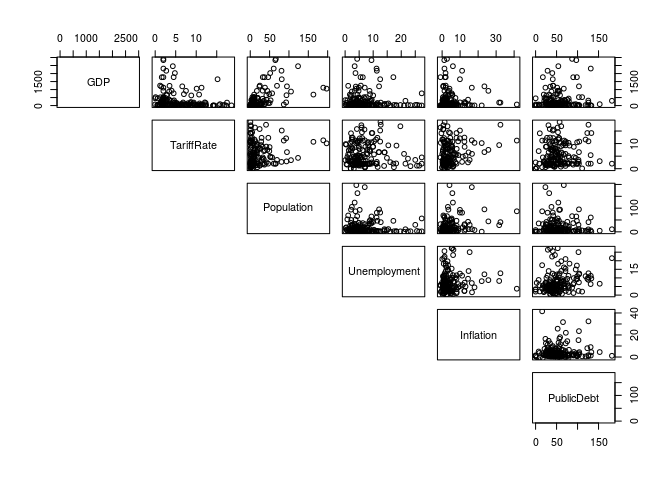
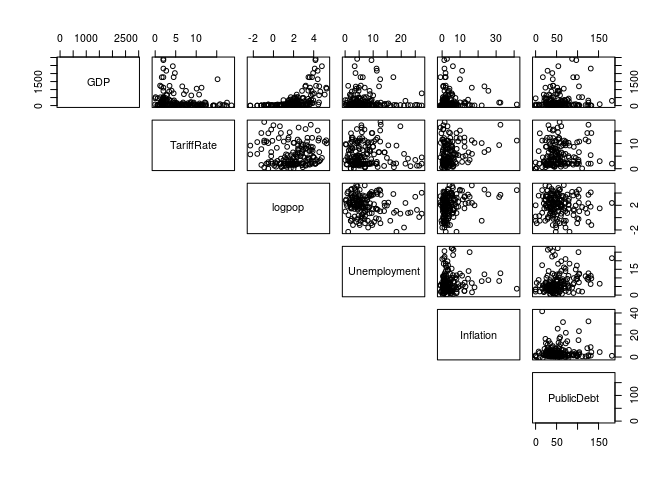
Fixed pairs

diff --git a/01-proposal/proposal.md b/01-proposal/proposal.md
@@ -7,14 +7,14 @@ Rtists
 library(tidyverse)
 ```
 
-    ## ── Attaching packages ─────────────────────────────────────────────────────────────────────────────────── tidyverse 1.2.1 ──
+    ## ── Attaching packages ──────────────────────────────────────────────────────────────────────── tidyverse 1.2.1 ──
 
     ## ✔ ggplot2 3.2.1     ✔ purrr   0.3.2
     ## ✔ tibble  2.1.3     ✔ dplyr   0.8.3
     ## ✔ tidyr   0.8.3     ✔ stringr 1.4.0
     ## ✔ readr   1.3.1     ✔ forcats 0.4.0
 
-    ## ── Conflicts ────────────────────────────────────────────────────────────────────────────────────── tidyverse_conflicts() ──
+    ## ── Conflicts ─────────────────────────────────────────────────────────────────────────── tidyverse_conflicts() ──
     ## ✖ dplyr::filter() masks stats::filter()
     ## ✖ dplyr::lag()    masks stats::lag()
 
@@ -135,7 +135,7 @@ skim()
     ##  n obs: 173 
     ##  n variables: 1 
     ## 
-    ## ── Variable type:numeric ───────────────────────────────────────────────────────────────────────────────────────────────────
+    ## ── Variable type:numeric ────────────────────────────────────────────────────────────────────────────────────────
     ##  variable missing complete   n   mean      sd  p0  p25  p50   p75    p100
     ##       GDP       0      173 173 729.71 2486.04 0.6 28.3 88.9 439.6 23159.1
     ##      hist
@@ -172,7 +172,7 @@ skim()
     ##  n obs: 173 
     ##  n variables: 1 
     ## 
-    ## ── Variable type:numeric ───────────────────────────────────────────────────────────────────────────────────────────────────
+    ## ── Variable type:numeric ────────────────────────────────────────────────────────────────────────────────────────
     ##  variable missing complete   n   mean      sd  p0  p25  p50   p75    p100
     ##       GDP       0      173 173 729.71 2486.04 0.6 28.3 88.9 439.6 23159.1
     ##      hist
@@ -210,7 +210,7 @@ skim()
     ##  n obs: 173 
     ##  n variables: 1 
     ## 
-    ## ── Variable type:numeric ───────────────────────────────────────────────────────────────────────────────────────────────────
+    ## ── Variable type:numeric ────────────────────────────────────────────────────────────────────────────────────────
     ##  variable missing complete   n mean   sd    p0  p25  p50  p75  p100
     ##    logGDP       0      173 173 4.61 2.08 -0.51 3.34 4.49 6.09 10.05
     ##      hist
@@ -247,7 +247,7 @@ skim()
     ##  n obs: 173 
     ##  n variables: 1 
     ## 
-    ## ── Variable type:numeric ───────────────────────────────────────────────────────────────────────────────────────────────────
+    ## ── Variable type:numeric ────────────────────────────────────────────────────────────────────────────────────────
     ##   variable missing complete   n  mean    sd  p0 p25  p50  p75 p100
     ##  TaxBurden       0      173 173 22.19 10.25 1.6  14 20.7 30.2   47
     ##      hist
@@ -280,7 +280,7 @@ skim()
     ##  n obs: 173 
     ##  n variables: 1 
     ## 
-    ## ── Variable type:numeric ───────────────────────────────────────────────────────────────────────────────────────────────────
+    ## ── Variable type:numeric ────────────────────────────────────────────────────────────────────────────────────────
     ##     variable missing complete   n mean    sd   p0  p25  p50  p75 p100
     ##  GovSpending       0      173 173 32.2 10.67 10.6 23.6 31.6 39.8 64.2
     ##      hist
@@ -316,7 +316,7 @@ skim()
     ##  n obs: 173 
     ##  n variables: 1 
     ## 
-    ## ── Variable type:numeric ───────────────────────────────────────────────────────────────────────────────────────────────────
+    ## ── Variable type:numeric ────────────────────────────────────────────────────────────────────────────────────────
     ##    variable missing complete   n  mean     sd  p0 p25 p50  p75   p100
     ##  Population       0      173 173 42.16 149.89 0.1 2.9 9.5 31.4 1390.1
     ##      hist
@@ -350,7 +350,7 @@ skim()
     ##  n obs: 173 
     ##  n variables: 1 
     ## 
-    ## ── Variable type:numeric ───────────────────────────────────────────────────────────────────────────────────────────────────
+    ## ── Variable type:numeric ────────────────────────────────────────────────────────────────────────────────────────
     ##    variable missing complete   n  mean     sd  p0 p25 p50  p75   p100
     ##  Population       0      173 173 42.16 149.89 0.1 2.9 9.5 31.4 1390.1
     ##      hist
@@ -401,7 +401,7 @@ skim()
     ##  n obs: 173 
     ##  n variables: 1 
     ## 
-    ## ── Variable type:numeric ───────────────────────────────────────────────────────────────────────────────────────────────────
+    ## ── Variable type:numeric ────────────────────────────────────────────────────────────────────────────────────────
     ##      variable missing complete   n mean   sd  p0 p25 p50 p75 p100     hist
     ##  Unemployment       0      173 173 7.27 5.67 0.1 3.7 5.5 9.3 27.3 ▆▇▅▂▁▁▁▁
 
@@ -445,7 +445,7 @@ skim()
     ##  n obs: 173 
     ##  n variables: 1 
     ## 
-    ## ── Variable type:numeric ───────────────────────────────────────────────────────────────────────────────────────────────────
+    ## ── Variable type:numeric ────────────────────────────────────────────────────────────────────────────────────────
     ##   variable missing complete   n  mean    sd   p0 p25 p50 p75   p100
     ##  Inflation       0      173 173 10.87 82.56 -0.9 1.3 2.8 5.5 1087.5
     ##      hist
@@ -533,7 +533,7 @@ economic_data %>%
     ##  n obs: 173 
     ##  n variables: 1 
     ## 
-    ## ── Variable type:numeric ───────────────────────────────────────────────────────────────────────────────────────────────────
+    ## ── Variable type:numeric ────────────────────────────────────────────────────────────────────────────────────────
     ##    variable missing complete   n mean  sd p0 p25 p50 p75 p100     hist
     ##  TariffRate       0      173 173 5.61 4.4  0   2 4.2 8.7 18.6 ▇▅▃▃▃▁▁▁
 
@@ -563,7 +563,7 @@ economic_data %>%
     ##  n obs: 173 
     ##  n variables: 1 
     ## 
-    ## ── Variable type:numeric ───────────────────────────────────────────────────────────────────────────────────────────────────
+    ## ── Variable type:numeric ────────────────────────────────────────────────────────────────────────────────────────
     ##       variable missing complete   n  mean    sd p0 p25 p50 p75 p100
     ##  IncomeTaxRate       0      173 173 28.78 13.32  0  20  30  35   60
     ##      hist
@@ -597,7 +597,7 @@ skim()
     ##  n obs: 173 
     ##  n variables: 1 
     ## 
-    ## ── Variable type:numeric ───────────────────────────────────────────────────────────────────────────────────────────────────
+    ## ── Variable type:numeric ────────────────────────────────────────────────────────────────────────────────────────
     ##          variable missing complete   n  mean   sd p0 p25 p50 p75 p100
     ##  CorporateTaxRate       0      173 173 23.95 8.89  0  20  25  30   50
     ##      hist
@@ -630,7 +630,7 @@ skim()
     ##  n obs: 173 
     ##  n variables: 1 
     ## 
-    ## ── Variable type:numeric ───────────────────────────────────────────────────────────────────────────────────────────────────
+    ## ── Variable type:numeric ────────────────────────────────────────────────────────────────────────────────────────
     ##    variable missing complete   n  mean   sd p0  p25  p50  p75  p100
     ##  PublicDebt       0      173 173 56.46 33.8  0 35.2 49.4 69.9 236.4
     ##      hist
@@ -670,7 +670,7 @@ with most of the outliers removed.
 temp <- economic_data %>%
   filter(GDP<3000 & Inflation < 100)
 
-pairs(GDP ~ TariffRate + Population + Unemployment + Inflation + PublicDebt, data=temp, lower.panel = NULL)
+pairs(GDP ~ TariffRate + logpop + Unemployment + Inflation + PublicDebt, data=temp, lower.panel = NULL)
 ```
 
 ![](proposal_files/figure-gfm/Scatterplot%20GDP%20without%20outliers-1.png)<!-- -->
